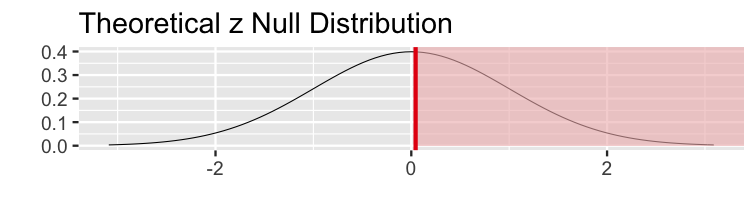
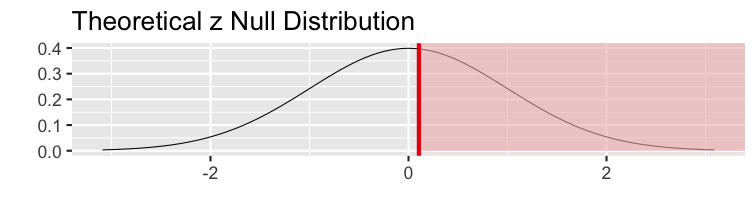
Second pass through

diff --git a/ness-infer/slide_deck.html b/ness-infer/slide_deck.html
@@ -1610,7 +1610,7 @@ In an episode of the show *Mythbusters*, they tested the myth that yawning is co
 
 --
 
-Analysis done with [Alison Hill](https://alison.rbind.io)
+- Analysis done with [Alison Hill](https://alison.rbind.io)
 
 ---
 
@@ -1960,6 +1960,7 @@ The distribution of 1000 differences in proportions, if the null hypothesis were
 ## Calculating the p-value
 
 In how many of our "parallel universes" is the difference as big or bigger than the one we observed (0.04412)?
+
 --
 
 The shaded proportion is the p-value!
@@ -1974,7 +1975,7 @@ Null Hypothesis:  independence
 # A tibble: 1 x 3
   n_as_big n_total p_value
      &lt;int&gt;   &lt;int&gt;   &lt;dbl&gt;
-1      512    1000   0.512
+1      505    1000   0.505
 ```
 
 ---
@@ -2092,7 +2093,7 @@ null_distn &lt;- yawn_myth %&gt;%
 
 ```r
 null_distn %&gt;% 
-  visualize(bins = 10, obs_stat = obs_diff, direction = "right")
+  visualize(obs_stat = obs_diff, direction = "right")
 ```
 
 ![](slide_deck_files/figure-html/unnamed-chunk-75-1.png)&lt;!-- --&gt;
@@ -2112,7 +2113,7 @@ yawn_myth %&gt;%
   hypothesize(null = "independence") %&gt;% 
   # generate() is not needed since we are not doing randomization
   # calculate(stat = "z") is implied based on variable types
-  visualize(method = "theoretical", obs_stat = obs_diff,
+  visualize(method = "theoretical", obs_stat = obs_z,
             direction = "right")
 ```
 
@@ -2130,7 +2131,7 @@ yawn_myth %&gt;%
   hypothesize(null = "independence") %&gt;% 
   generate(reps = 1000, type = "permute") %&gt;% 
   calculate(stat = "z", order = c("seed", "control")) %&gt;% 
-  visualize(method = "both", bins = 10, obs_stat = obs_diff,
+  visualize(method = "both", bins = 10, obs_stat = obs_z, 
             direction = "right")
 ```
 
@@ -2154,7 +2155,7 @@ mazes &lt;- read_csv("http://bit.ly/mazes-gist") %&gt;%
     - A permutation test and
     - A classical theoretical test.
     
-About the data: [Quantitative analysis of disfluency in children with autism spectrum disorder or language impairment](http://journals.plos.org/plosone/article?id=10.1371/journal.pone.0173936)
+About the data: &lt;small&gt;[Quantitative analysis of disfluency in children with autism spectrum disorder or language impairment](http://journals.plos.org/plosone/article?id=10.1371/journal.pone.0173936)&lt;/small&gt;
 
 ---
 
@@ -2174,7 +2175,7 @@ About the data: [Quantitative analysis of disfluency in children with autism spe
 ## Future plans
 
 - Generalize &lt;small&gt;`calculate()`'s&lt;/small&gt; `stat` argument
-- Improve speed and space by shifting to list-columns
+- Improve speed and memory used by shifting to list-columns
 - Rewrite the inference part of the [ModernDive](http://moderndive.netlify.com/9-ci.html) book
 - Lead more workshops on using the &lt;small&gt;`infer`&lt;/small&gt; package to extend knowledge of the &lt;small&gt;`tidyverse`&lt;/small&gt;, R, and statistics
 
